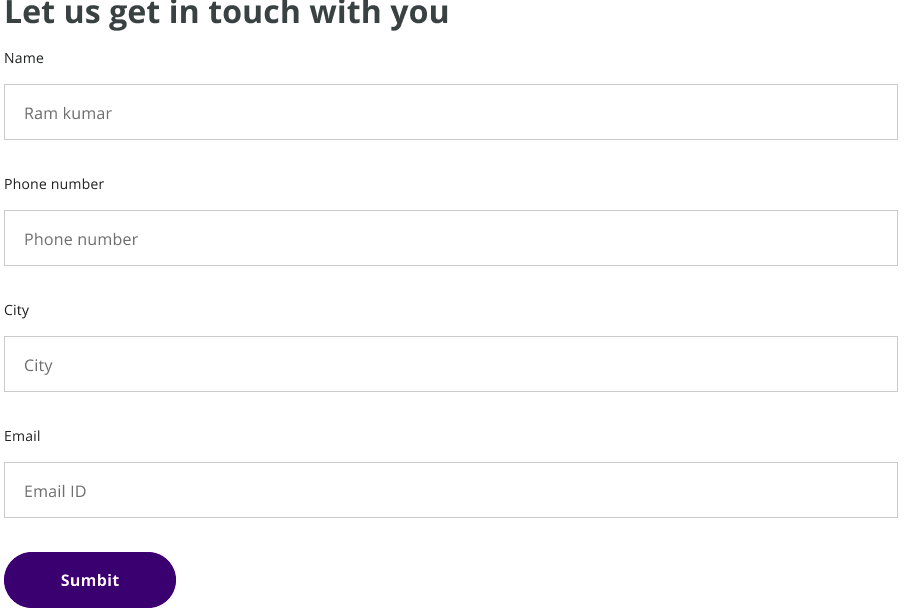
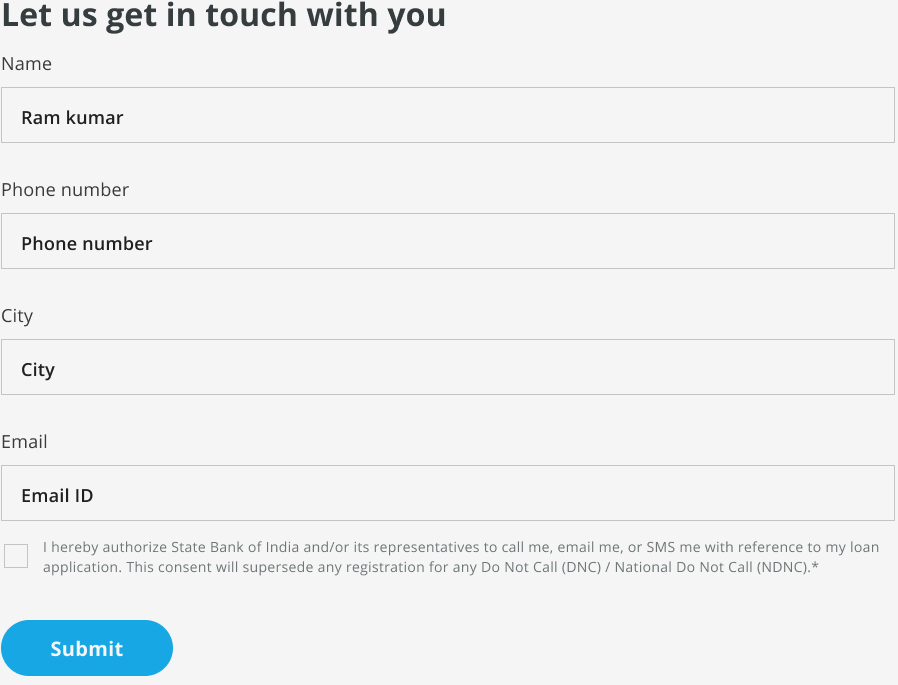
fix

diff --git a/style.css b/style.css
@@ -5,6 +5,7 @@
     --black-light:#737B7D;
     --white:#fff;
     --white-light:rgba(255, 255, 255, 0.8);
+    --blue-light:#17AEED;
 }
 body, ul,li{
     margin: 0;
@@ -25,7 +26,8 @@ body{
 .grid{
     display: grid;
     grid-template-columns:100%;
-    grid-template-rows: 72px auto auto auto 55px;
+   /*  grid-template-rows: 72px auto auto auto 55px; */
+   grid-template-rows: auto auto auto 55px;
 }
 .grid > div{
     display: grid;
@@ -47,6 +49,7 @@ body{
 }
 .leadForm .container {
     padding: 32px 20px 0;
+    max-width: 906px;
 }
 .grayBg{
     color: var(--black-light);
@@ -57,7 +60,7 @@ body{
 }
 .container {
     width: 100%;
-    margin: 0 auto 45px;
+    margin: 0 auto 25px;
 }
 .content .grid {
     display: grid;
@@ -95,7 +98,7 @@ h2{
 .button {
     width: auto;
     border-radius: 20px;
-    background: var(--blue);
+    background: var(--blue-light);
     place-items: center;
     color: #fff;
     max-width: 126px;
@@ -120,6 +123,30 @@ h2{
     width: 64px;
     height: 64px;
 }
+label {
+    display: block;
+    font-size: 14px;
+    line-height: 20px;
+    margin-bottom: 16px;
+    color: #1E1F1F;
+}
+
+input[type="text"] {
+    height: 56px;
+    padding: 0 20px;
+    font-size: 16px;
+    color: rgba(0, 0, 0, 0.57);
+    border: 1px solid rgba(0, 0, 0, 0.2);
+    width: 100%;
+}
+.field {
+    margin-bottom: 34px;
+}
+
+.field input:focus {
+    outline: 1px solid #c3c3c3fa;
+}
+
 @media screen and (max-width:376px){
     .hideMobile{
         display: none;
@@ -127,7 +154,9 @@ h2{
     .hideDesktop{
         display: block;
     }
-    
+    .leadForm iframe{
+        max-height: 230px;
+    }
 }
 @media screen and (min-width:768px){
     .container {
@@ -140,7 +169,7 @@ h2{
         padding-left: 74px;
     }
     .leadForm iframe {
-        height: 630px;
+        height: 670px;
     }
     .content .grid{
         grid-template-columns: minmax(340px, 540px) minmax(340px, 540px);

diff --git a/index.html b/index.html
@@ -8,9 +8,9 @@
 </head>
 <body>
     <div class="grid">
-        <div class="logo">
+        <!-- <div class="logo">
            <a href="#" title="SBI"> <img src="img/sbilogo.png" alt="SBI"/></a>
-        </div>
+        </div> -->
         <div class="banner">
             <img src="img/webbanner.png" alt="SBI" class="hideMobile"/>
             <img src="img/mobileBanner.png" alt="SBI" class="hideDesktop"/>
@@ -19,12 +19,28 @@
             <div class="container">
                 <!-- <h2>Let us get in touch with you</h2> -->
                 <iframe src="iframe.html"></iframe>
-                <!-- <div  class="button">
+                <!-- <div class="field">
+                    <label>Name </label>
+                    <input type="text" placeholder="name">
+                </div>
+                <div class="field">
+                    <label>Phone number</label>
+                    <input type="text" placeholder="Phone number">
+                </div>
+                <div class="field">
+                    <label>City </label>
+                    <input type="text" placeholder="City">
+                </div>
+                <div class="field">
+                    <label>Email                    </label>
+                    <input type="text" placeholder="Email ID">
+                </div>
+                <div  class="button">
                     Submit
                 </div> -->
             </div>
         </div>
-        <div class="content grayBg marginBottom50">
+        <div class="content grayBg">
             <div class="container grid">
                 <div class="grid1">
                     <img src="img/contentBanner.png" alt="Product Features">
